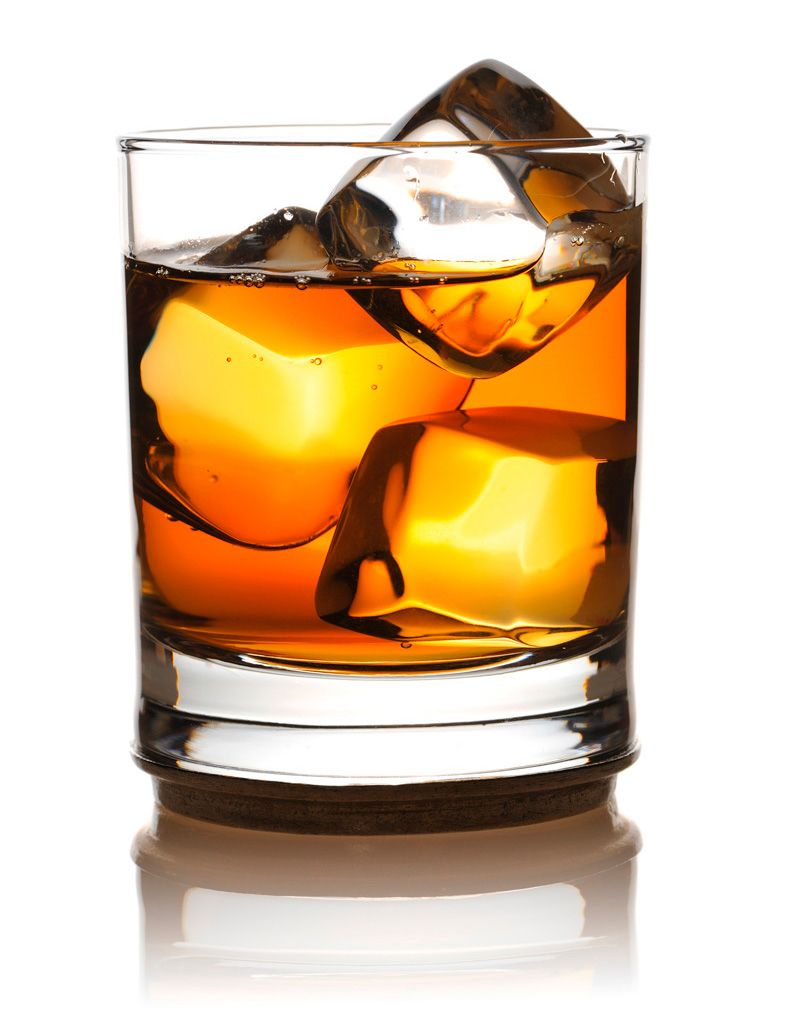
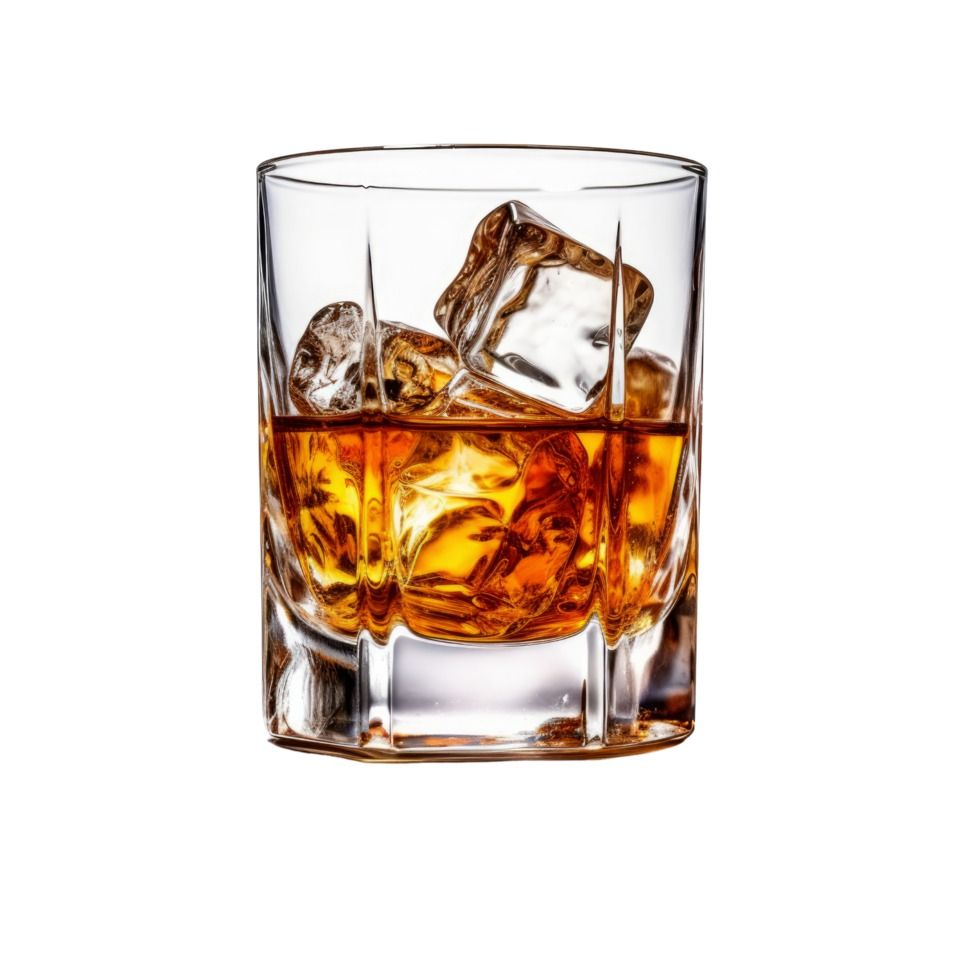
Add new bar/beverages photos and revert object-contain

diff --git a/src/App.jsx b/src/App.jsx
@@ -1028,8 +1028,7 @@ const haptic = (type) => {
           badgeBg: "rgba(233, 180, 108, 0.10)",
           badgeBorder: "rgba(233, 180, 108, 0.25)",
           bgGradient: "linear-gradient(160deg, rgba(50, 42, 35, 0.76) 0%, rgba(20, 16, 13, 0.86) 100%)",
-          image: "/beverages.jpg",
-          objectFit: "object-contain"
+          image: "/beverages.jpg"
         },
         "Bar": {
           span: "col-span-1",
@@ -1041,8 +1040,7 @@ const haptic = (type) => {
           badgeBg: "rgba(130, 207, 162, 0.10)",
           badgeBorder: "rgba(130, 207, 162, 0.25)",
           bgGradient: "linear-gradient(160deg, rgba(30, 48, 38, 0.76) 0%, rgba(12, 18, 14, 0.86) 100%)",
-          image: "/bar.jpg",
-          objectFit: "object-contain"
+          image: "/bar.jpg"
         },
         "Hookah": {
           span: "col-span-2",